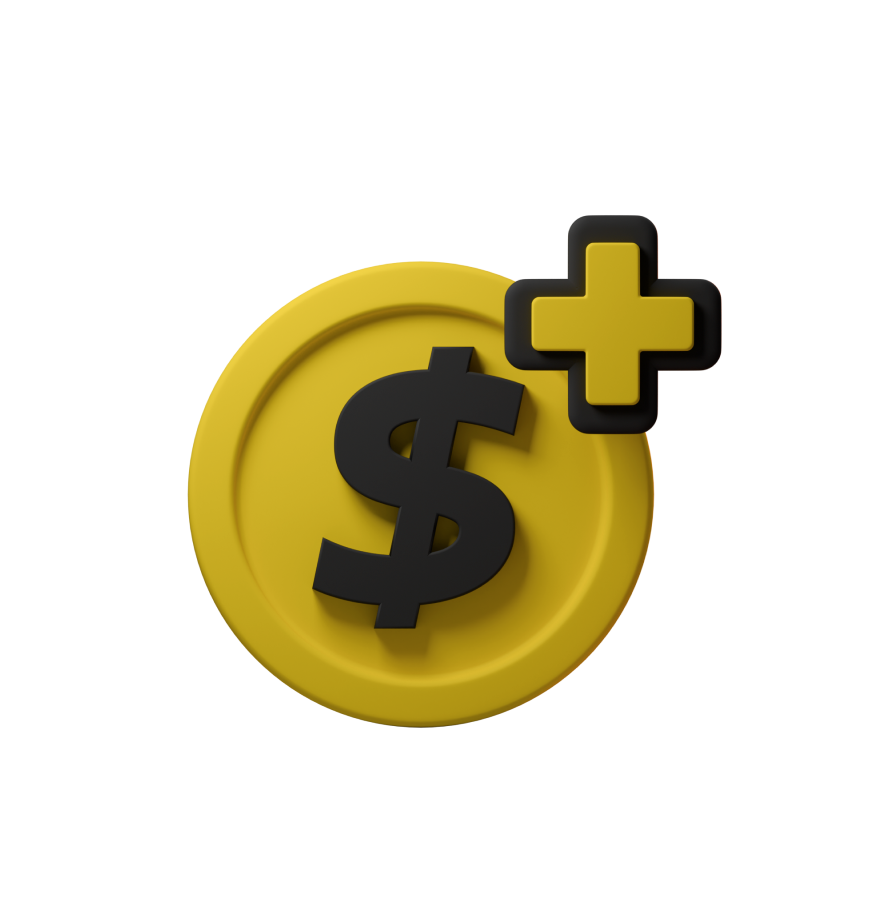
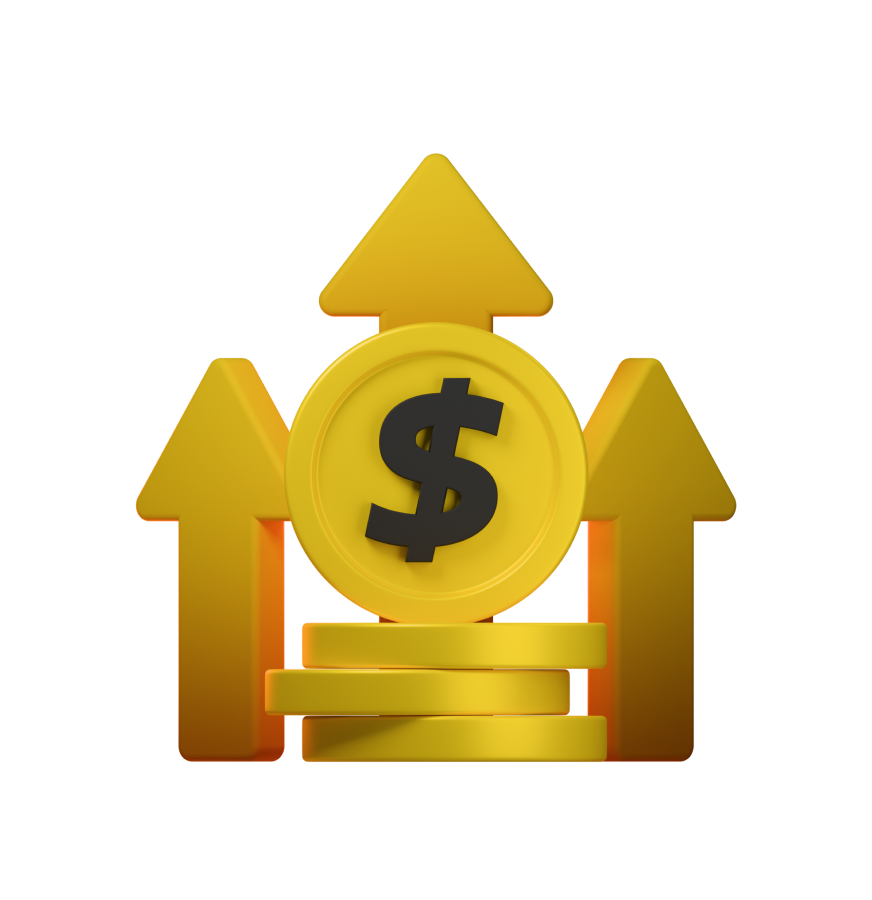
Add hevc version of the animations

Changed region(s): [[0.1548, 0.1556, 0.867, 0.8711]]

diff --git a/src/pages/home/ui/CreateStore.tsx b/src/pages/home/ui/CreateStore.tsx
@@ -30,15 +30,8 @@ export function CreateStore() {
 				<VideoAnimationPlayer
 					className='flex-shrink-0 w-[26rem] xl:w-[48rem] hidden lg:block h-[48rem]'
 					src='/videos/hero-anim2.webm'
-					// srcHevc='/videos/hero-anim.mp4'
-				>
-					{/* <Image
-						src={ImageHero}
-						alt="Hero image"
-						className="size-full"
-						quality={100}
-					/> */}
-				</VideoAnimationPlayer>
+					srcHevc='/videos/hero-anim.mov'
+				/>
 			</div>
 		</div>
 	);

diff --git a/src/pages/home/ui/Hero.tsx b/src/pages/home/ui/Hero.tsx
@@ -23,15 +23,8 @@ export function Hero() {
 				<VideoAnimationPlayer
 					className='flex-shrink-0 w-[30rem] xl:w-[48rem] hidden lg:block h-[48rem]'
 					src='/videos/hero-anim2.webm'
-					// srcHevc='/videos/hero-anim.mp4'
-				>
-					{/* <Image
-						src={ImageHero}
-						alt="Hero image"
-						className="size-full"
-						quality={100}
-					/> */}
-				</VideoAnimationPlayer>
+					srcHevc='/videos/hero-anim.mov'
+				/>
 			</div>
 		</div>
 	);

diff --git a/src/shared/ui/video-anim-player/index.tsx b/src/shared/ui/video-anim-player/index.tsx
@@ -25,7 +25,7 @@ export function VideoAnimationPlayer({ src, srcHevc, children, ...props }: Video
 				className={cn('size-full', !videoLoaded && 'opacity-0 size-0')}
 				onTimeUpdate={() => setVideoLoaded(true)}
 			>
-				{!!srcHevc && <source src={srcHevc} type='video/mp4; codecs="hvc1"' />}
+				{!!srcHevc && <source src={srcHevc} type='video/quicktime' />}
 				<source src={src} />
 			</video>
 			{!videoLoaded && children}

diff --git a/src/pages/home/ui/EscrowBuyerSeller.tsx b/src/pages/home/ui/EscrowBuyerSeller.tsx
@@ -32,6 +32,7 @@ export function EscrowBuyerSeller() {
 
 				<VideoAnimationPlayer
 					src='/videos/ecrow.webm'
+					srcHevc='/videos/ecrow.mov'
 					className='flex-shrink-0 w-[30rem] xl:w-[48rem] hidden lg:block'
 				/>
 